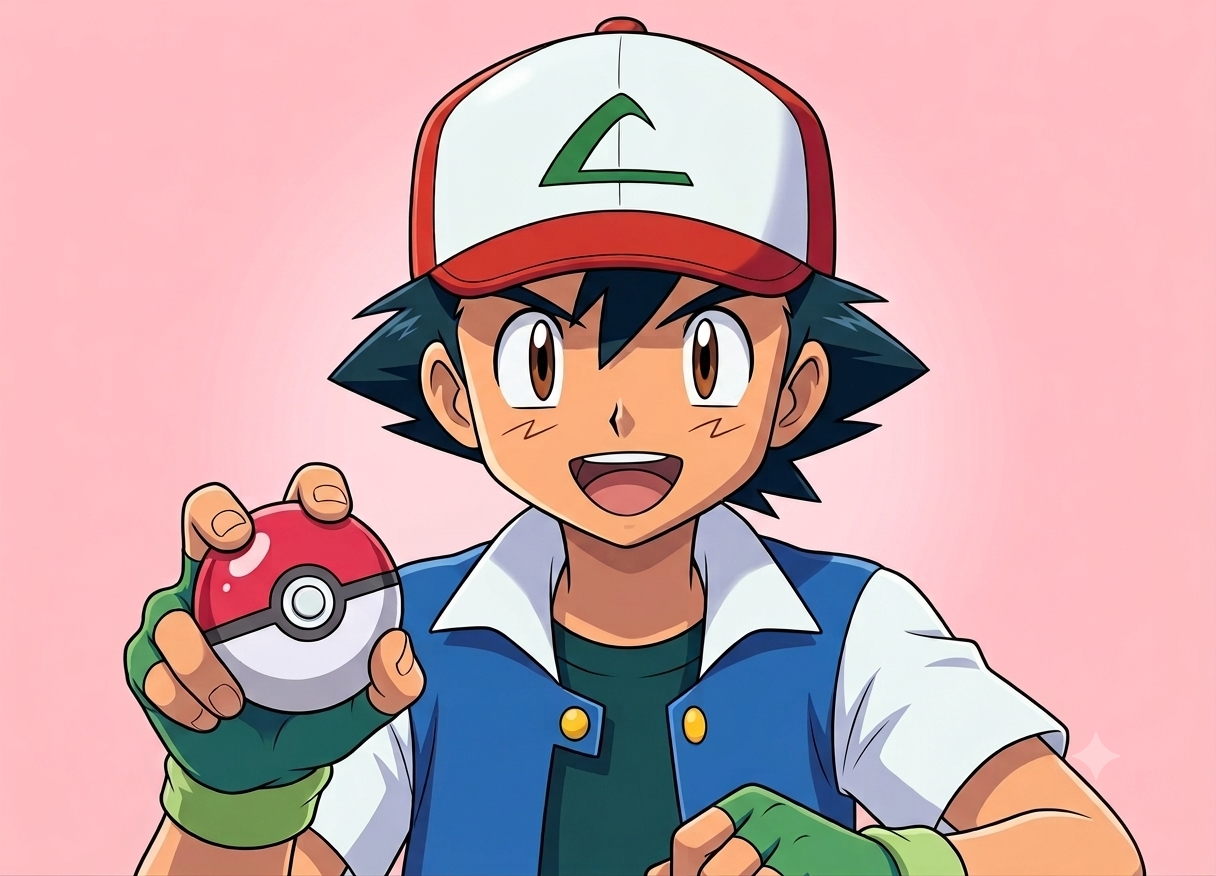
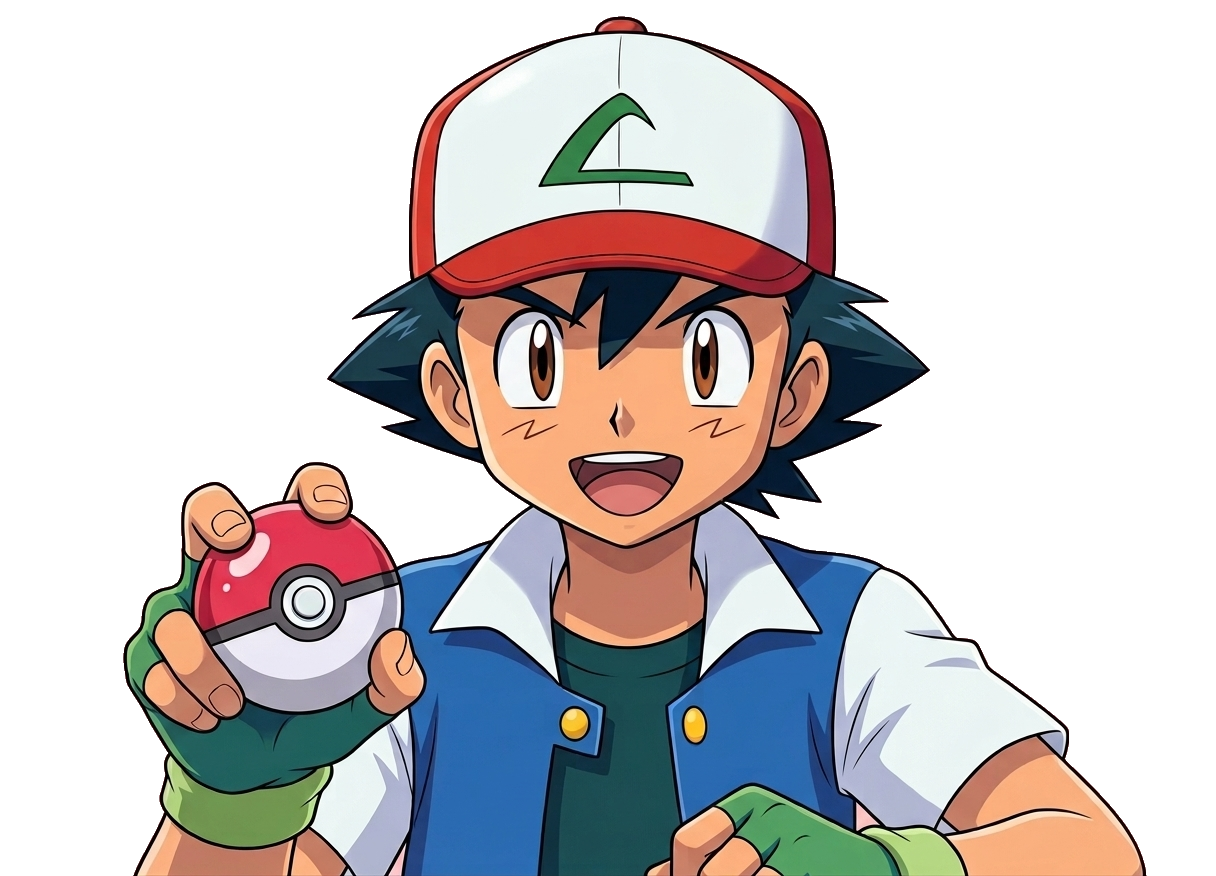
Transparent Ash prompt + single mouth-open per clip
- Cut the pink background out of the three Ash portraits (tools/cutout_bg.py:
  edge flood-fill + halo cleanup) so he floats transparently over the scene.
- Prompt box now contain-fits the cut-out with a soft shadow (no pink card).
- Mouth opens once for the whole spoken clip (closed -> open -> closed) instead
  of rapid flapping, matching the slow, single-word delivery.

diff --git a/sparkrunmath.html b/sparkrunmath.html
@@ -1547,27 +1547,24 @@ function drawCard(x,y,val,theme,selected,reveal){
 function sparkle(r){ g.beginPath(); for(let i=0;i<8;i++){ const a=i*Math.PI/4, rad=(i%2===0)?r:r*0.4; g.lineTo(Math.cos(a)*rad,Math.sin(a)*rad);} g.closePath(); g.fill(); }
 
 /* Younger game: Ash in the prompt box. He "says" the target letter/number — the
-   clip fires on spawn and his mouth flaps closed↔open while it plays; a correct
-   answer swaps in his celebration frame for a moment. Tap the box to replay. */
+   clip fires on spawn; his mouth opens (once) for the whole clip then closes, and
+   a correct answer swaps in his celebration frame for a moment. Transparent art,
+   so he floats over the scene. Tap the box to replay. */
 const ASH_PROMPT = { closed:'ash_say0.png', open:'ash_say1.png', yay:'ash_yay.png' };
 function drawAshPrompt(P){
   const yay = ashYayT>0;
-  const open = promptTalking() && (Math.floor(performance.now()/110)%2===0);   // lip-flap while speaking
-  const spr = bossSprite(yay ? ASH_PROMPT.yay : open ? ASH_PROMPT.open : ASH_PROMPT.closed);
+  const spr = bossSprite(yay ? ASH_PROMPT.yay : promptTalking() ? ASH_PROMPT.open : ASH_PROMPT.closed);
   g.save();
-  rr(P.x,P.y,P.w,P.h,18);
-  g.save(); g.clip();                                    // keep the portrait inside the rounded box
-  g.fillStyle='#f7c5d4'; g.fillRect(P.x,P.y,P.w,P.h);    // matches the art's pink so any load gap blends in
-  if(spr&&spr.ready){                                    // cover-fit the portrait
-    const im=spr2d(spr), s=Math.max(P.w/im.width,P.h/im.height), w=im.width*s, h=im.height*s;
-    g.imageSmoothingEnabled=true; g.drawImage(im, P.x+P.w/2-w/2, P.y+P.h/2-h/2, w, h);
+  if(spr&&spr.ready){                                    // contain-fit so nothing is cropped
+    const im=spr2d(spr), s=Math.min(P.w/im.width,P.h/im.height), w=im.width*s, h=im.height*s;
+    g.shadowColor='rgba(0,0,0,.35)'; g.shadowBlur=10; g.shadowOffsetY=3;
+    g.imageSmoothingEnabled=true; g.drawImage(im, P.x+P.w/2-w/2, P.y+(P.h-h)/2, w, h);
+    g.shadowColor='transparent'; g.shadowBlur=0; g.shadowOffsetY=0;
   }
-  g.restore();                                           // end clip
-  g.strokeStyle = yay?C.mint:C.glow; g.lineWidth=4; rr(P.x,P.y,P.w,P.h,18); g.stroke();
   // speaker badge (corner) — the whole box is tap-to-replay
-  const bx=P.x+P.w-22, by=P.y+P.h-22;
-  g.fillStyle='rgba(35,22,53,.8)'; g.beginPath(); g.arc(bx,by,16,0,7); g.fill();
-  g.fillStyle=C.cream; g.font='600 18px Fredoka, sans-serif'; g.textAlign='center'; g.textBaseline='middle';
+  const bx=P.x+P.w-14, by=P.y+P.h-16;
+  g.fillStyle='rgba(35,22,53,.8)'; g.beginPath(); g.arc(bx,by,15,0,7); g.fill();
+  g.fillStyle=C.cream; g.font='600 17px Fredoka, sans-serif'; g.textAlign='center'; g.textBaseline='middle';
   g.fillText('🔊', bx, by+1); g.textAlign='left'; g.textBaseline='alphabetic';
   g.restore();
 }

diff --git a/tools/cutout_bg.py b/tools/cutout_bg.py
@@ -1,0 +1,74 @@
+#!/usr/bin/env python3
+"""Knock the flat/gradient background out of a portrait PNG, making it transparent.
+
+Region-grows a flood from the top/left/right edges (NOT the bottom, where the
+subject's body often touches the frame), following the smooth background gradient
+and stopping at the subject's hard outline. Then a couple of "halo" passes remove
+the anti-aliased background fringe left around the edge.
+
+Tuned for the Ash prompt portraits (pink studio background). Adjust --grow /
+--halo tolerances if a different background bleeds into the subject or leaves a
+ring.
+
+    python3 tools/cutout_bg.py ash_say0.png ash_say1.png ash_yay.png
+"""
+import sys, argparse
+from collections import deque
+from PIL import Image
+
+def d2(a, b):
+    return (a[0]-b[0])**2 + (a[1]-b[1])**2 + (a[2]-b[2])**2
+
+def cutout(path, grow, halo, ref):
+    im = Image.open(path).convert('RGBA')
+    W, H = im.size
+    px = list(im.getdata())                       # flat [(r,g,b,a), ...]
+    bg = bytearray(W*H)                            # 1 = background (make transparent)
+    q = deque()
+    def seed(x, y):
+        i = y*W + x
+        if not bg[i]: bg[i] = 1; q.append((x, y))
+    for x in range(W): seed(x, 0)                  # top edge
+    for y in range(H): seed(0, y); seed(W-1, y)    # left + right edges
+    # region grow: a neighbour joins the background if it's close to the pixel we
+    # came from (follows a gradient) and still in the broad background colour range
+    while q:
+        x, y = q.popleft()
+        cur = px[y*W + x]
+        for dx, dy in ((1,0),(-1,0),(0,1),(0,-1)):
+            nx, ny = x+dx, y+dy
+            if 0 <= nx < W and 0 <= ny < H:
+                j = ny*W + nx
+                if not bg[j]:
+                    c = px[j]
+                    if d2(c, cur) <= grow*grow and d2(c, ref) <= 140*140:
+                        bg[j] = 1; q.append((nx, ny))
+    # halo: opaque pixels touching transparency that are still background-ish
+    for _ in range(2):
+        add = []
+        for y in range(H):
+            for x in range(W):
+                i = y*W + x
+                if bg[i]: continue
+                if d2(px[i], ref) <= halo*halo:
+                    for dx, dy in ((1,0),(-1,0),(0,1),(0,-1)):
+                        nx, ny = x+dx, y+dy
+                        if 0 <= nx < W and 0 <= ny < H and bg[ny*W+nx]:
+                            add.append(i); break
+        if not add: break
+        for i in add: bg[i] = 1
+    out = [(r, g, b, 0) if bg[k] else (r, g, b, a) for k, (r, g, b, a) in enumerate(px)]
+    im.putdata(out)
+    im.save(path)
+    cleared = sum(bg)
+    print(f"{path}: cleared {cleared} px ({100*cleared/(W*H):.1f}%) -> transparent")
+
+if __name__ == '__main__':
+    ap = argparse.ArgumentParser()
+    ap.add_argument('files', nargs='+')
+    ap.add_argument('--grow', type=int, default=46, help='region-grow colour tolerance')
+    ap.add_argument('--halo', type=int, default=70, help='fringe-removal tolerance vs the reference bg colour')
+    ap.add_argument('--ref', default='251,190,196', help='reference background colour r,g,b')
+    a = ap.parse_args()
+    ref = tuple(int(v) for v in a.ref.split(','))
+    for f in a.files: cutout(f, a.grow, a.halo, ref)

diff --git a/PROGRESS.md b/PROGRESS.md
@@ -37,9 +37,9 @@ _Last updated: 2026-06-14._
   (`sparkrun.caught.v1.<pack>`).
 - **Younger "ABC & 123" game** — Ash *speaks* a letter/number and the child jumps
   to the matching balloon. In the prompt box (top centre, where the sum sits) Ash's
-  portrait **lip-flaps closed↔open while the clip plays** (`ash_say0/1.png`) and
-  swaps to a **celebration frame on a correct answer** (`ash_yay.png`); tap the box
-  to replay. Levels: 1–10 / A–M / N–Z / 11–20 / A–Z, 8 questions each, same
+  portrait (transparent cut-out, floats over the scene) **opens his mouth once for
+  the spoken clip** (`ash_say0` closed → `ash_say1` open → closed) and swaps to a
+  **celebration frame on a correct answer** (`ash_yay.png`); tap the box to replay. Levels: 1–10 / A–M / N–Z / 11–20 / A–Z, 8 questions each, same
   Pokémon bosses. `recogLevel`/`pickChoices` build the content; gens return their
   own `choices` + an `audio` key; `sayGlyph()` plays `say_<x>.mp3` (falls back to
   device speech-synth if a clip is missing) and drives the lip-flap via
